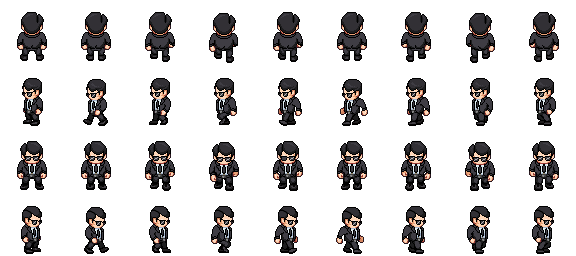
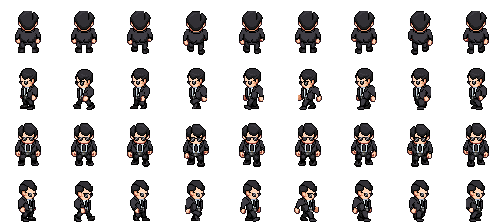
Resized screen tile to 56x56
Change: Tiles now adapted to 56x56. This should fit iPad display
sizes of 1024x672.
Add: Fire and Air wizard entities added.
Add: x and y offsets when rendering tilemap and wizards

diff --git a/js/entities/wizards.js b/js/entities/wizards.js
@@ -13,8 +13,12 @@ game.WizardEntity = me.ObjectEntity.extend({
      */
     init: function(x, y, settings) {
         
+        settings.spritewidth = 56;
+        settings.spriteheight = 56;
         x *= _Globals.gfx.tileWidth;
         y *= _Globals.gfx.tileHeight;
+        x += _Globals.canvas.xOffset;
+        y += _Globals.canvas.yOffset;
         this.parent(x, y, settings);
 
         this.collidable = false;
@@ -80,8 +84,6 @@ game.EarthWizardEntity = game.WizardEntity.extend({
 
     init: function(x, y, settings) {
         settings.image = 'earth_wizard';
-        settings.spritewidth = 64;
-        settings.spriteheight = 64;
         this.parent(x, y, settings);
 
         // setup props
@@ -110,8 +112,6 @@ game.WaterWizardEntity = game.WizardEntity.extend({
 
     init: function(x, y, settings) {
         settings.image = 'earth_wizard';
-        settings.spritewidth = 64;
-        settings.spriteheight = 64;
         this.parent(x, y, settings);
 
         // setup props
@@ -136,8 +136,55 @@ game.WaterWizardEntity = game.WizardEntity.extend({
 /**
  * FIRE: Valeriya
  */
+game.FireWizardEntity = game.WizardEntity.extend({
 
+    init: function(x, y, settings) {
+        settings.image = 'earth_wizard';
+        this.parent(x, y, settings);
+
+        // setup props
+        this.name = 'Valeriya';
+        
+        // setup animations
+        this.renderable.animationspeed = 175; 
+        this.renderable.addAnimation('stand_left', [9]);
+        this.renderable.addAnimation('stand_right', [27]);
+        this.renderable.addAnimation('stand_up', [0]);
+        this.renderable.addAnimation('stand_down', [18]);        
+        this.renderable.addAnimation('walk_up', [0, 1, 2, 3, 4, 5, 6, 7, 8]);
+        this.renderable.addAnimation('walk_left', [9, 10, 11, 12, 13, 14, 15, 16, 17]);
+        this.renderable.addAnimation('walk_down', [18, 19, 20, 21, 22, 23, 24, 25, 26]);
+        this.renderable.addAnimation('walk_right', [27, 28, 29, 30, 31, 32, 33, 34, 35]);
+
+        this.renderable.setCurrentAnimation('stand_left');
+    }
+
+});
 
 /**
  * AIR: Rafel
  */
+game.AirWizardEntity = game.WizardEntity.extend({
+
+    init: function(x, y, settings) {
+        settings.image = 'earth_wizard';
+        this.parent(x, y, settings);
+
+        // setup props
+        this.name = 'Rafel';
+        
+        // setup animations
+        this.renderable.animationspeed = 175; 
+        this.renderable.addAnimation('stand_left', [9]);
+        this.renderable.addAnimation('stand_right', [27]);
+        this.renderable.addAnimation('stand_up', [0]);
+        this.renderable.addAnimation('stand_down', [18]);        
+        this.renderable.addAnimation('walk_up', [0, 1, 2, 3, 4, 5, 6, 7, 8]);
+        this.renderable.addAnimation('walk_left', [9, 10, 11, 12, 13, 14, 15, 16, 17]);
+        this.renderable.addAnimation('walk_down', [18, 19, 20, 21, 22, 23, 24, 25, 26]);
+        this.renderable.addAnimation('walk_right', [27, 28, 29, 30, 31, 32, 33, 34, 35]);
+
+        this.renderable.setCurrentAnimation('stand_right');
+    }
+
+});

diff --git a/js/map.js b/js/map.js
@@ -9,8 +9,8 @@
 
 (function TileMap(game) {
 
-    var mapWidth = 15;
-    var mapHeight = 11;
+    var mapWidth = _Globals.gfx.mapWidth;
+    var mapHeight = _Globals.gfx.mapHeight;
 
     var S1 = -1;
     var S2 = -2;
@@ -70,6 +70,20 @@
             return this.getTile(x, y) === type;
         },
 
+        getCornerPos: function(corner) {
+            if (corner === 'top-left') {
+                return {x: 0, y: 0};
+            } else if (corner === 'top-right') {
+                return {x: mapWidth - 1, y: 0};
+            } else if (corner === 'bottom-left') {
+                return {x: 0, y: mapHeight - 1};
+            } else if (corner === 'bottom-right') {
+                return {x: mapWidth - 1, y: mapHeight - 1};
+            } else {
+                throw "Invalid corner type!";
+            }
+        },
+
         getPlayerPos: function(player) {
             return players[player];
         },
@@ -119,17 +133,17 @@
      */
     
     var tilemap = [
-        S1, E, E, E, E, W, W, W, W, F, F, F, F, A, S2,
-         W, W, W, W, F, F, F, F, A, A, A, A, E, A, W,
-         E, A, A, A, A, E, E, E, E, F, F, F, E, A, W,
-         E, F, A, A, E, E, E, E, W, W, W, F, E, A, W,
-         E, F, A, E, E, W, W, F, F, F, W, A, E, E, W,
-         E, F, A, E, E, E, W, X, X, E, E, A, W, E, F,
-         A, F, F, E, A, E, X, X, X, E, A, A, W, E, F,
-         A, W, F, A, A, A, A, F, F, F, F, W, W, E, F,
-         A, W, F, A, A, A, F, F, F, F, W, W, W, W, F,
-         A, W, F, W, W, W, W, E, E, E, E, A, A, A, A,
-        S4, W, E, E, E, E, A, A, A, A, F, F, F, F, S3
+        S1, E, E, E, E, W, W, W, W, F, F, F, F, A, 0, 0, S2,
+         W, W, W, W, F, F, F, F, A, A, A, A, E, A, 0, 0, W,
+         E, A, A, A, A, E, E, E, E, F, F, F, E, A, 0, 0, W,
+         E, F, A, A, E, E, E, E, W, W, W, F, E, A, 0, 0, W,
+         E, F, A, E, E, W, W, F, F, F, W, A, E, E, 0, 0, W,
+         E, F, A, E, E, E, W, X, X, E, E, A, W, E, 0, 0, F,
+         A, F, F, E, A, E, X, X, X, E, A, A, W, E, 0, 0, F,
+         A, W, F, A, A, A, A, F, F, F, F, W, W, E, 0, 0, F,
+         A, W, F, A, A, A, F, F, F, F, W, W, W, W, 0, 0, F,
+         A, W, F, W, W, W, W, E, E, E, E, A, A, A, 0, 0, A,
+        S4, W, E, E, E, E, A, A, A, A, F, F, F, F, 0, 0, S3
     ];
     var player1 = [
         R, R, R, R, R, R, R, R, R, R, R, R, R, D, 0,

diff --git a/js/scenes/playgame.js b/js/scenes/playgame.js
@@ -45,8 +45,14 @@ game.PlayScene = me.ScreenObject.extend({
 
         // me.entityPool.add("earth_wizard", game.EarthWizardEntity, true);
         // var wizard = me.entityPool.newInstanceOf("earth_wizard", 50, 50, {});
-        me.game.world.addChild(new game.EarthWizardEntity(0, 0, {}));
-        me.game.world.addChild(new game.WaterWizardEntity(14, 0, {}));
+        var corner = game.map.getCornerPos('top-left');
+        me.game.world.addChild(new game.EarthWizardEntity(corner.x, corner.y, {}));
+        corner = game.map.getCornerPos('top-right');
+        me.game.world.addChild(new game.WaterWizardEntity(corner.x, corner.y, {}));
+        corner = game.map.getCornerPos('bottom-right');
+        me.game.world.addChild(new game.FireWizardEntity(corner.x, corner.y, {}));
+        corner = game.map.getCornerPos('bottom-left');
+        me.game.world.addChild(new game.AirWizardEntity(corner.x, corner.y, {}));
         //me.game.world.addChild(new game.EarthWizardEntity(14, 0, {}));
         //me.game.world.addChild(new game.EarthWizardEntity(14, 0, {}));
 

diff --git a/js/globals.js b/js/globals.js
@@ -9,14 +9,16 @@
 
 var _Globals = {
     canvas: {
-        width: 960,
-        height: 704
+        width: 1024,
+        height: 672,
+        xOffset: 0,
+        yOffset: 56
     },
     gfx: {
-        mapWidth: 15,
-        mapHeight: 11,
-        tileWidth: 64,
-        tileHeight: 64,
+        mapWidth: 17,
+        mapHeight: 10,
+        tileWidth: 56,
+        tileHeight: 56,
 
         baseZ: 19000,
         zTile: 19010,

diff --git a/js/entities/tiles.js b/js/entities/tiles.js
@@ -15,6 +15,8 @@ game.TileEntity = me.ObjectEntity.extend({
         settings.spriteheight = _Globals.gfx.tileHeight;
         x *= _Globals.gfx.tileWidth;
         y *= _Globals.gfx.tileHeight;
+        x += _Globals.canvas.xOffset;
+        y += _Globals.canvas.yOffset;
         this.parent(x, y, settings);
 
         this.z = _Globals.gfx.zTile;
